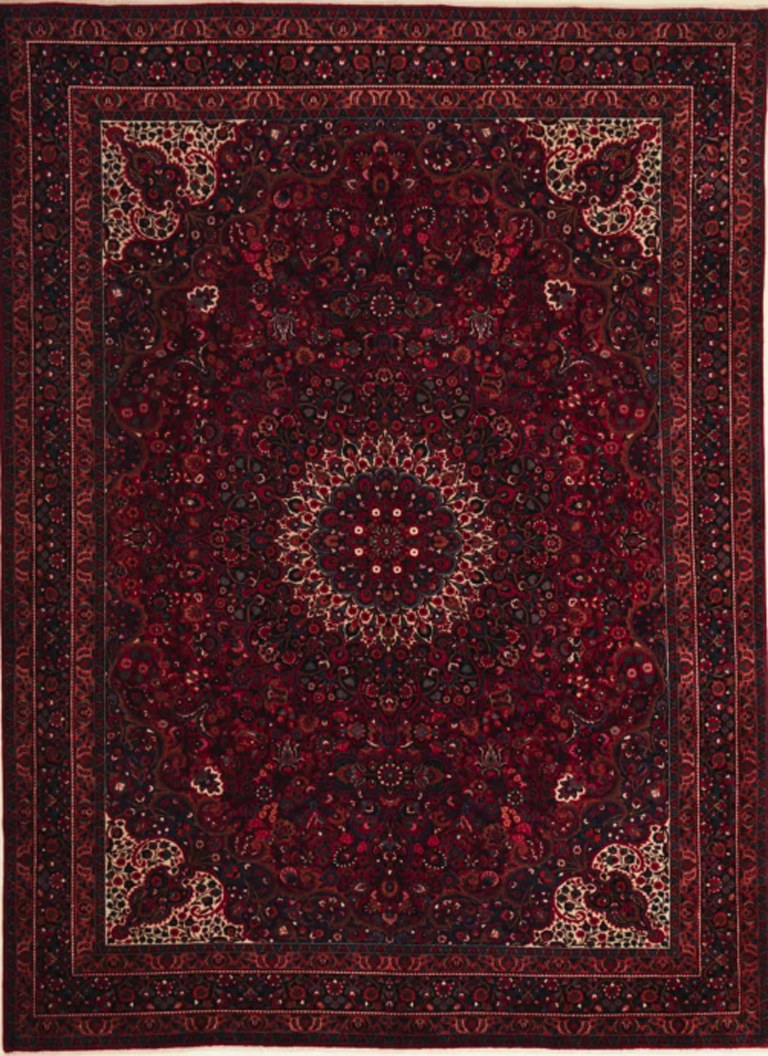
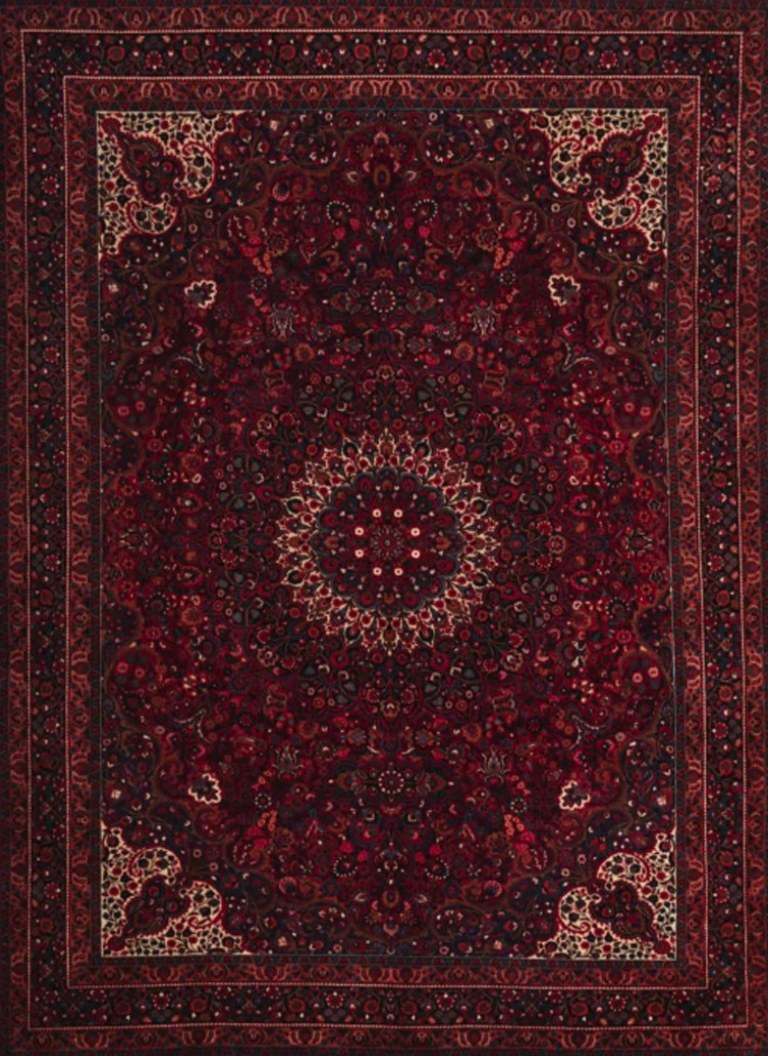
Museum: live 24/7 Boston cam in the window (YouTube embed placed in 3D behind the glass, photo fallback), bigger rug with white ends trimmed
Claude-Session: https://claude.ai/code/session_01QGkYnYDwcJGWv9v9XG2rQd

diff --git a/museum.js b/museum.js
@@ -12,7 +12,7 @@
   var WIN = { w: 7.0, y0: 0.75, y1: 3.6 };   // left-wall picture window (metres, along the wall / heights)
   var EYE = 1.6, HOME = new THREE.Vector3(0, EYE, -0.3);
 
-  var renderer = new THREE.WebGLRenderer({ canvas: canvas, antialias: true });
+  var renderer = new THREE.WebGLRenderer({ canvas: canvas, antialias: true, alpha: true });   // alpha: the window lets the live-cam layer show through
   renderer.setPixelRatio(Math.min(window.devicePixelRatio || 1, 2));
   renderer.outputColorSpace = THREE.SRGBColorSpace;
   renderer.toneMapping = THREE.ACESFilmicToneMapping;
@@ -139,6 +139,70 @@
     var dusk = new THREE.PointLight(0x7f96e0, 2.0, 8, 1.5); dusk.position.set(x + 0.8, cy, 0); scene.add(dusk);
   })();
 
+  /* ---------- live Boston through the window ----------
+     A 24/7 YouTube live cam plays in a real <iframe> placed in 3D (CSS 3D
+     transforms, same camera) 14 m behind the glass; the WebGL scene punches a
+     transparent hole exactly over it so the city shows through. The photo
+     panorama stays around it and is all you see if no stream is playing.
+     Streams are third-party and can go offline, so several are tried in order. */
+  var LIVE_CAMS = ['BBlaNNmUJy8', 'UZ20XjGsCCs', '3I_cIS24AfY'];   // Boston live cams: Back Bay/Charles, Charles River, Harbor
+  var live = (function () {
+    var layer = document.createElement('div'), camEl = document.createElement('div'), box = document.createElement('div');
+    layer.style.cssText = 'position:fixed;inset:0;overflow:hidden;pointer-events:none;z-index:0;background:#1a2b52';
+    camEl.style.cssText = 'position:absolute;left:0;top:0;transform-style:preserve-3d';
+    var PX_W = 1920, PX_H = 1080, W = 48, H = W * 9 / 16;
+    box.style.cssText = 'position:absolute;width:' + PX_W + 'px;height:' + PX_H + 'px;background:#000;backface-visibility:hidden';
+    var mount = document.createElement('div'); box.appendChild(mount);
+    camEl.appendChild(box); layer.appendChild(camEl);
+    canvas.parentNode.insertBefore(layer, canvas); canvas.style.zIndex = 1;
+    // where the video sits in the world (behind the left-wall window, facing into the room)
+    var anchor = new THREE.Object3D();
+    anchor.position.set(-ROOM.w / 2 - 14, 3.2, 0); anchor.rotation.y = Math.PI / 2; anchor.scale.set(W / PX_W, H / PX_H, 1);
+    scene.add(anchor);
+    var hole = new THREE.Mesh(new THREE.PlaneGeometry(W, H), new THREE.MeshBasicMaterial({ color: 0x000000, opacity: 0, blending: THREE.NoBlending }));
+    hole.position.copy(anchor.position); hole.rotation.copy(anchor.rotation); hole.visible = false; scene.add(hole);
+
+    function ep(v) { return Math.abs(v) < 1e-10 ? 0 : v; }
+    function camCss(m) { var e = m.elements; return 'matrix3d(' + [e[0], -e[1], e[2], e[3], e[4], -e[5], e[6], e[7], e[8], -e[9], e[10], e[11], e[12], -e[13], e[14], e[15]].map(ep).join(',') + ')'; }
+    function objCss(m) { var e = m.elements; return 'translate(-50%,-50%)matrix3d(' + [e[0], e[1], e[2], e[3], -e[4], -e[5], -e[6], -e[7], e[8], e[9], e[10], e[11], e[12], e[13], e[14], e[15]].map(ep).join(',') + ')'; }
+    function render() {
+      if (!hole.visible) return;
+      var w = canvas.clientWidth, h = canvas.clientHeight, fov = camera.projectionMatrix.elements[5] * h / 2;
+      layer.style.perspective = fov + 'px';
+      camera.updateMatrixWorld(); anchor.updateMatrixWorld();
+      camEl.style.width = w + 'px'; camEl.style.height = h + 'px';
+      camEl.style.transform = 'translateZ(' + fov + 'px)' + camCss(camera.matrixWorldInverse) + 'translate(' + w / 2 + 'px,' + h / 2 + 'px)';
+      box.style.transform = objCss(anchor.matrixWorld);
+    }
+    // YouTube IFrame API: muted autoplay; show the hole only while a stream is actually playing
+    var idx = 0, player = null, watchdog = null;
+    function tryNext() {
+      hole.visible = false; layer.style.visibility = 'hidden';
+      if (idx >= LIVE_CAMS.length) return;                   // nothing playing: the photo stays
+      var id = LIVE_CAMS[idx++];
+      clearTimeout(watchdog); watchdog = setTimeout(function () { if (!hole.visible) { if (player) player.destroy(); player = null; mount = document.createElement('div'); box.textContent = ''; box.appendChild(mount); tryNext(); } }, 20000);
+      player = new YT.Player(mount, {
+        width: PX_W, height: PX_H, videoId: id,
+        playerVars: { autoplay: 1, mute: 1, controls: 0, disablekb: 1, fs: 0, rel: 0, iv_load_policy: 3, playsinline: 1, modestbranding: 1 },
+        events: {
+          onReady: function (e) { e.target.mute(); e.target.playVideo(); },
+          onStateChange: function (e) {
+            var on = e.data === 1;                             // 1 = playing
+            hole.visible = on; layer.style.visibility = on ? 'visible' : 'hidden';
+            if (e.data === 0) { clearTimeout(watchdog); idx = idx; }   // live ended: photo shows until it resumes
+          },
+          onError: function () { clearTimeout(watchdog); if (player) player.destroy(); player = null; mount = document.createElement('div'); box.textContent = ''; box.appendChild(mount); tryNext(); }
+        }
+      });
+    }
+    if (!(window.matchMedia && matchMedia('(prefers-reduced-motion: reduce)').matches)) {
+      var prev = window.onYouTubeIframeAPIReady;
+      window.onYouTubeIframeAPIReady = function () { if (prev) prev(); tryNext(); };
+      var tag = document.createElement('script'); tag.src = 'https://www.youtube.com/iframe_api'; tag.async = true; document.head.appendChild(tag);
+    }
+    return { render: render };
+  })();
+
   /* ---------- straight gallery track lighting ----------
      black ceiling tracks running parallel to each wall, 1 m in from it;
      every artwork gets its own spot can on the track aimed at it (see addCan). */
@@ -169,7 +233,7 @@
 
   /* ---------- Persian rug + a simple gallery bench on it ---------- */
   (function rugAndBench() {
-    var RW = 3.6, RL = 4.95, RZ = -1.95;
+    var RW = 4.4, RL = 6.05, RZ = -1.6;
     var rugMat = new THREE.MeshStandardMaterial({ color: 0xffffff, roughness: 1 });
     var rug = new THREE.Mesh(new THREE.BoxGeometry(RW, 0.01, RL), [baseRug(), baseRug(), rugMat, baseRug(), baseRug(), baseRug()]);
     function baseRug() { return new THREE.MeshStandardMaterial({ color: 0x3a0d12, roughness: 1 }); }
@@ -1073,6 +1137,7 @@
   (function loop(now) {
     if (anim) anim(now);
     renderer.render(scene, camera);
+    live.render();
     requestAnimationFrame(loop);
   })(performance.now());
   window.__museum = { scene: scene, camera: camera, plaques: plaques, focusOn: focusOn };

diff --git a/museum.html b/museum.html
@@ -14,7 +14,7 @@
   .top{position:fixed;top:14px;left:16px;font-size:10px;letter-spacing:.16em;text-transform:uppercase;z-index:3}
   .top a,.top button{color:inherit;text-decoration:none;border:0;border-bottom:1px solid #aaa;background:none;font:inherit;letter-spacing:inherit;text-transform:inherit;padding:0 0 2px;cursor:pointer}
   .top button[hidden]{display:none}
-  .hud{position:fixed;left:0;right:0;bottom:14px;text-align:center;font-size:10px;letter-spacing:.14em;color:#8a877f;text-transform:uppercase;pointer-events:none}
+  .hud{position:fixed;z-index:2;left:0;right:0;bottom:14px;text-align:center;font-size:10px;letter-spacing:.14em;color:#8a877f;text-transform:uppercase;pointer-events:none}
   .card{position:fixed;right:18px;top:50%;transform:translateY(-50%);width:min(300px,calc(100vw - 36px));background:#fff;border:1px solid #1b1b1b;padding:18px 18px 14px;font-size:11px;line-height:1.55;display:none;z-index:3}
   .card.show{display:block}
   .card h2{margin:0 0 2px;font-size:14px;font-weight:600;letter-spacing:.02em}
